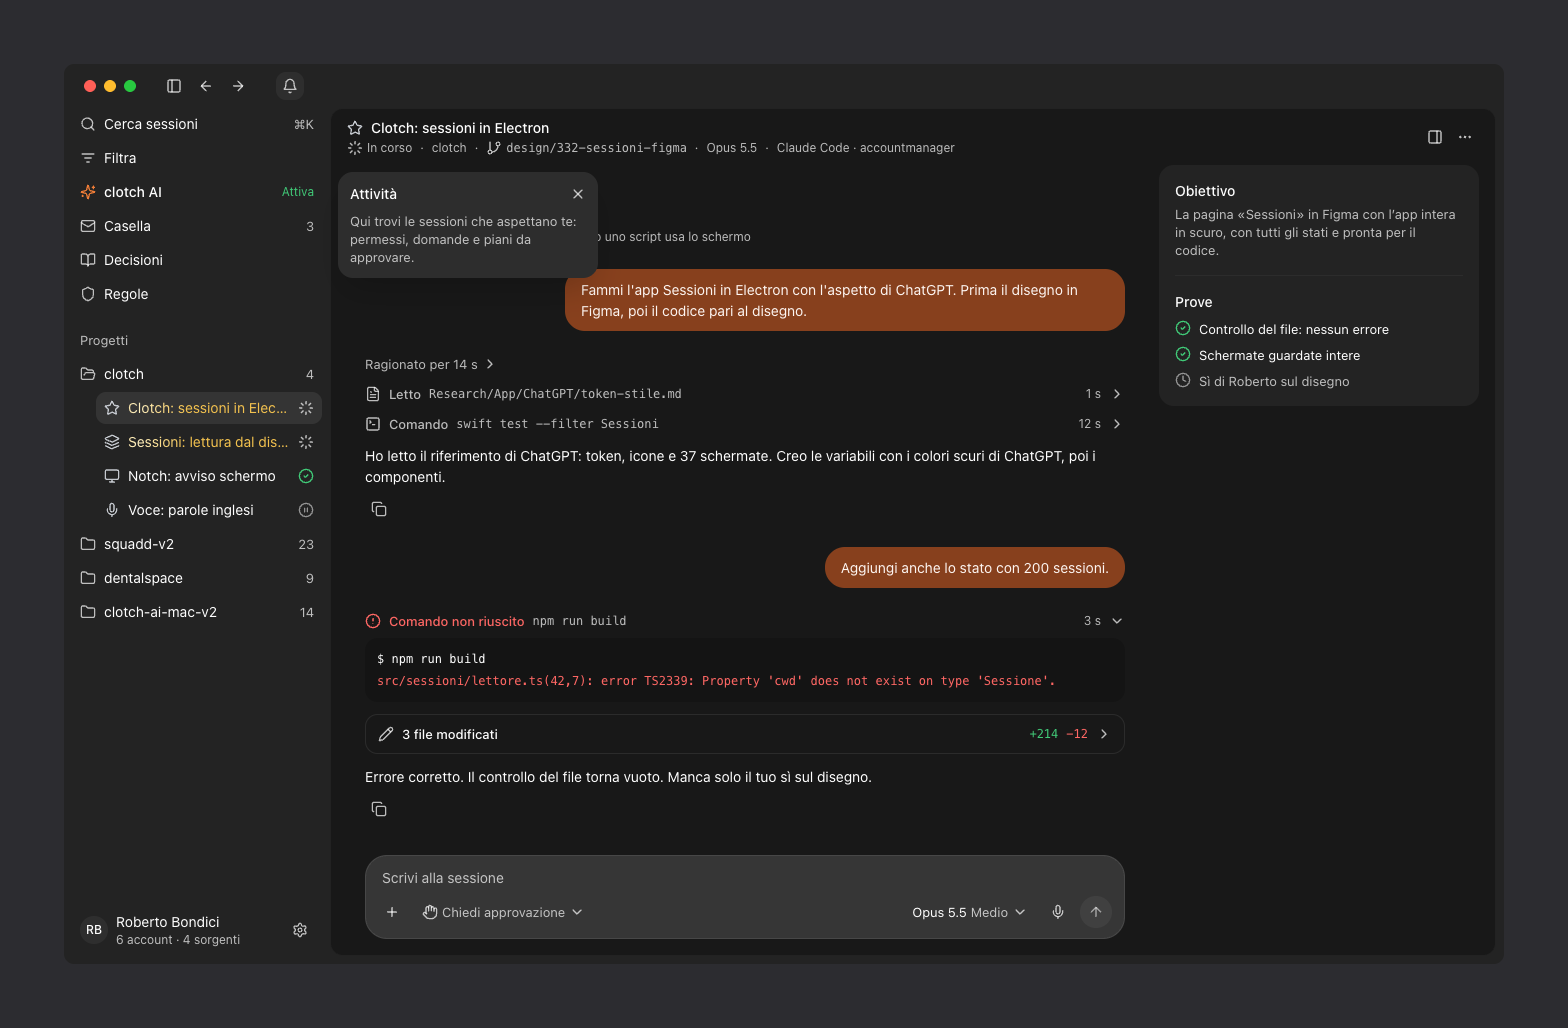
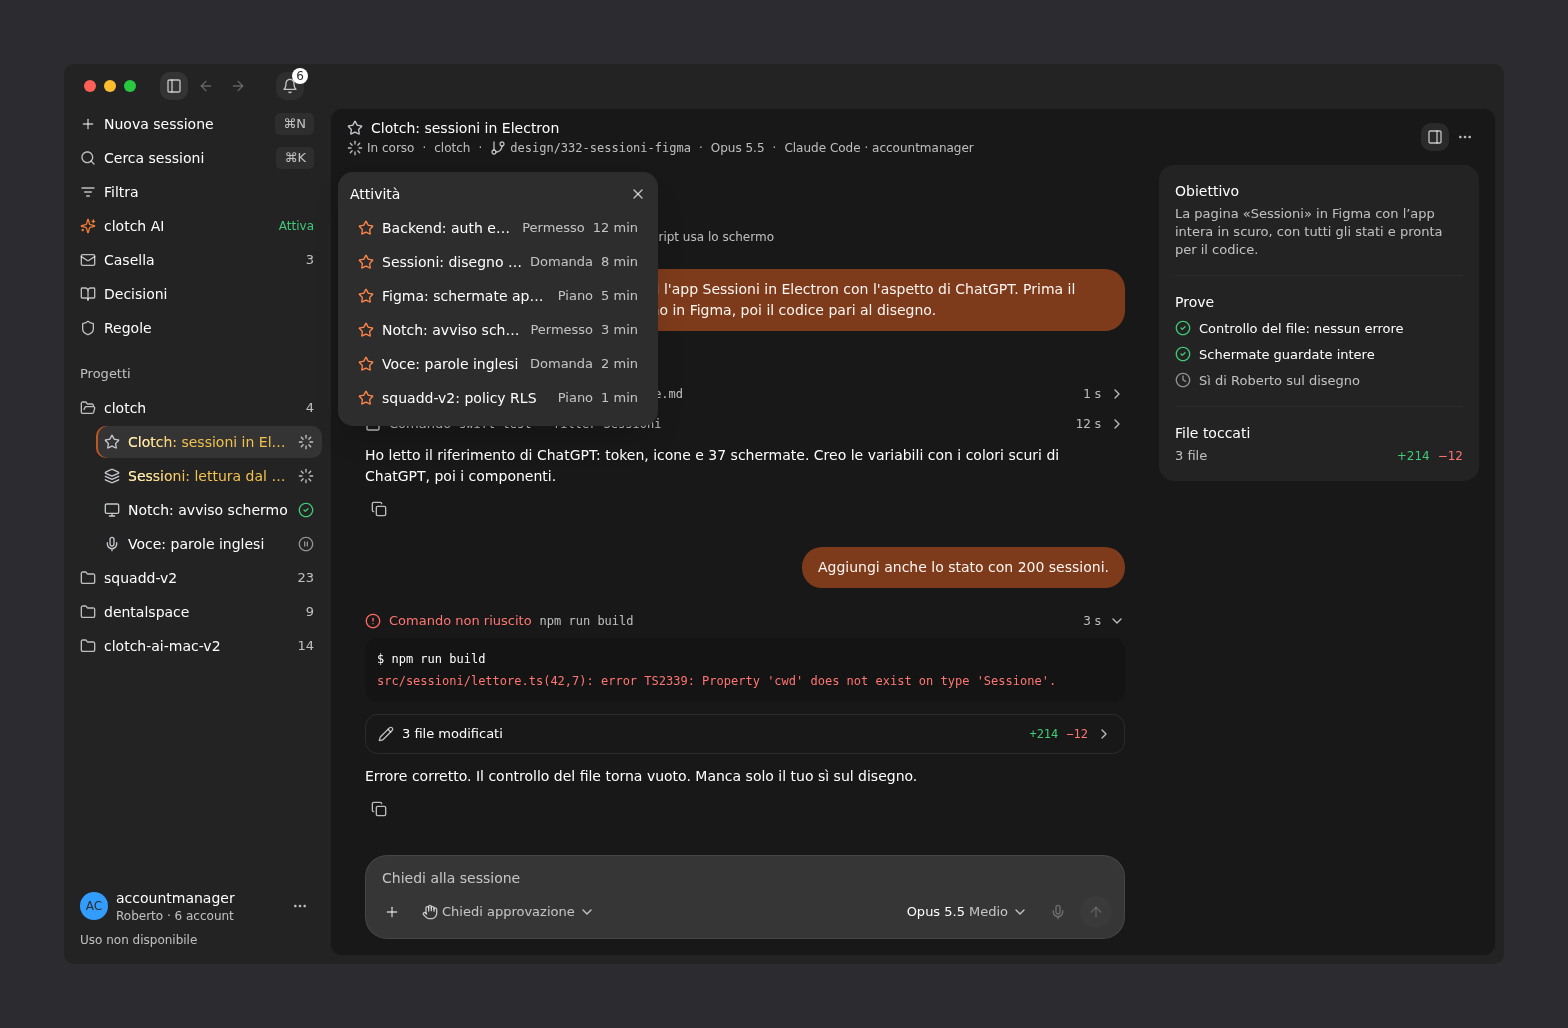
fix(cornice): il popover Attività elenca le sessioni che aspettano te (#868)
- Popover «Con sessioni» 163:83903: righe «Riga attesa» (icona, titolo con ellissi, Permesso/Domanda/Piano, minuti),
  sessione aperta scelta, passaggio, frecce, Invio apre; sei righe poi scorre. «Vuoto» resta il testo di prima.
- Attesa porta `da` (ms della richiesta) per i minuti.
- Preload: un solo ascoltatore IPC per canale; tanti usePreferenze() non superano più il limite di 10 (MaxListenersExceeded).
- Scena 101-30172 con le sei righe del frame; «Nessuna prova ancora» come il frame 113-51111;
  A1 e A5 con l'etichetta della campana; tolta la riga SOV-032 doppia (identica) che rompeva controlla-checklist.

diff --git a/sessioni/src/ui/base/Attivita.tsx b/sessioni/src/ui/base/Attivita.tsx
@@ -1,10 +1,14 @@
-// figma: 101-30172 — «Bottone attività» 121:58595 (Senza numero, Con numero, Aperto) e «Popover attività» 121:58601
-import { useEffect, useRef, useState } from "react";
+// figma: 101-30172 — «Bottone attività» 121:58595 (Senza numero, Con numero, Aperto) e «Popover attività» 163:83962 (Vuoto 121:58601, Con sessioni 163:83903)
+import { useEffect, useRef, useState, type KeyboardEvent } from "react";
 import type { Registro } from "../../clotch-ai";
+import { useApriSessione } from "../barra/apri";
+import { durata } from "../chat/testi";
 import { useRegistro } from "../clotch-ai/dati";
 import { casella } from "../clotch-ai/vista";
 import { BottoneIcona } from "./Bottone";
+import { usePreferenze } from "./dati";
 import { Icona } from "./Icona";
+import { IconaSessione } from "./IconaSessione";
 import { useNavigazione } from "./navigazione";
 import { Sovrapposto, type Punto } from "./Sovrapposto";
 import { numero } from "./token";
@@ -16,15 +20,26 @@ function punto(): Punto {
   return { x: s.left + numero("spazio-2"), y: s.top + numero("misura-intestazione") + numero("spazio-2") };
 }
 
+// ↑ e ↓ passano da una riga all'altra (HIG: una lista si scorre con le frecce)
+const frecce = (e: KeyboardEvent<HTMLDivElement>) => {
+  const passo = e.key === "ArrowDown" ? 1 : e.key === "ArrowUp" ? -1 : 0;
+  const righe = [...e.currentTarget.querySelectorAll<HTMLElement>(".riga-attesa")], i = righe.indexOf(document.activeElement as HTMLElement);
+  if (!passo || !righe.length) return;
+  e.preventDefault();
+  righe[Math.min(righe.length - 1, Math.max(0, i + passo))].focus();
+};
+
 /** Campana nella barra del titolo: il numero è quello di «Casella» (sessioni che aspettano te); il clic apre e chiude il popover; la X, Esc e un clic fuori lo chiudono. */
 export function Attivita() {
   const r = useRegistro();
   // nella prova di parità del frame 101-30172 il popover parte aperto, come nel disegno
   const [aperto, setAperto] = useState(() => new URLSearchParams(location.search).get("parita") === "101-30172");
   // la barra che si apre o si chiude (⌘\) sposta il punto in cui sta: si chiude (#544)
-  const { barraAperta } = useNavigazione(), barraPrima = useRef(barraAperta);
+  const { barraAperta, sessione } = useNavigazione(), barraPrima = useRef(barraAperta);
+  const pref = usePreferenze().dati, apriSessione = useApriSessione();
   useEffect(() => { if (barraPrima.current !== barraAperta) { barraPrima.current = barraAperta; setAperto(false); } }, [barraAperta]);
-  const n = r.dati ? casella(r.dati as Registro, Date.now()).aspettano : 0;
+  const attese = r.dati ? casella(r.dati as Registro, Date.now()).progetti.flatMap((p) => p.aspettano) : [];
+  const n = attese.length;
   return (
     <>
       <div className="bottone-attivita">
@@ -32,12 +47,25 @@ export function Attivita() {
         {n > 0 && <span className="contatore t-xs medio" aria-hidden>{n}</span>}
       </div>
       {aperto && (
-        <Sovrapposto ancora={punto()} className="popover-attivita" role="dialog" label="Attività" onChiudi={() => setAperto(false)}>
+        <Sovrapposto ancora={punto()} className={n ? "popover-attivita con-sessioni" : "popover-attivita"} role="dialog" label="Attività" onChiudi={() => setAperto(false)}>
           <div className="testata">
             <span className="medio">Attività</span>
             <button type="button" aria-label="Chiudi" title="Chiudi" onClick={() => setAperto(false)}><Icona nome="chiudi" /></button>
           </div>
-          <div className="t-sm secondario">Qui trovi le sessioni che aspettano te: permessi, domande e piani da approvare.</div>
+          {n === 0 ? <div className="t-sm secondario">Qui trovi le sessioni che aspettano te: permessi, domande e piani da approvare.</div> : (
+            <div className="elenco" onKeyDown={frecce}>
+              {attese.map((a) => (
+                <button key={a.chat} type="button" className="riga-attesa" aria-current={a.chat === sessione || undefined}
+                  onClick={() => { setAperto(false); apriSessione(a.chat); }}>
+                  <IconaSessione icona={pref?.[a.chat]?.icona} colore={pref?.[a.chat]?.colore} />
+                  <span className="titolo t-base">{pref?.[a.chat]?.nome ?? a.titolo}</span>
+                  <span className="t-sm secondario">{a.genere}</span>
+                  {/* «12 min»: minuti interi, almeno 1 */}
+                  {a.da != null && <span className="t-sm secondario">{durata(Math.max(60_000, Math.floor((Date.now() - a.da) / 60_000) * 60_000))}</span>}
+                </button>
+              ))}
+            </div>
+          )}
         </Sovrapposto>
       )}
     </>

diff --git a/sessioni/src/preload.ts b/sessioni/src/preload.ts
@@ -1,35 +1,31 @@
 import { contextBridge, ipcRenderer, webUtils } from "electron";
 import type { Aggiornamento, CasellaApi, ClotchAiApi, ImpostazioniApi, NuovaSessioneApi, PreferenzeSessione, SessioniApi } from "./tipi";
 
+/** Un solo ascoltatore IPC per canale, con tutti i componenti che lo chiedono dietro: tanti `usePreferenze()` non superano
+ *  il limite di 10 ascoltatori dell'EventEmitter (avviso MaxListenersExceeded). */
+function ascolta<T>(canale: string) {
+  const chi = new Set<(d: T) => void>();
+  let acceso = false;
+  return (cb: (d: T) => void) => {
+    if (!acceso) { acceso = true; ipcRenderer.on(canale, (_e, d: T) => chi.forEach((f) => f(d))); }
+    chi.add(cb);
+    return () => { chi.delete(cb); };
+  };
+}
+
 const api: SessioniApi = {
   elencoSessioni: () => ipcRenderer.invoke("sessioni:elenco"),
   messaggi: (id, pagina, opzioni) => ipcRenderer.invoke("sessioni:messaggi", id, pagina, opzioni),
-  onAggiornamento: (cb) => {
-    const f = (_e: unknown, a: Aggiornamento) => cb(a);
-    ipcRenderer.on("sessioni:aggiornamento", f);
-    return () => ipcRenderer.removeListener("sessioni:aggiornamento", f);
-  },
+  onAggiornamento: ascolta<Aggiornamento>("sessioni:aggiornamento"),
   preferenze: () => ipcRenderer.invoke("sessioni:preferenze"),
   impostaPreferenze: (id, parte) => ipcRenderer.invoke("sessioni:imposta-preferenze", id, parte),
-  onPreferenze: (cb) => {
-    const f = (_e: unknown, p: Record<string, PreferenzeSessione>) => cb(p);
-    ipcRenderer.on("sessioni:preferenze", f);
-    return () => ipcRenderer.removeListener("sessioni:preferenze", f);
-  },
+  onPreferenze: ascolta<Record<string, PreferenzeSessione>>("sessioni:preferenze"),
   azione: (id, azione) => ipcRenderer.invoke("sessioni:azione", id, azione),
   menuBarra: (aperta) => ipcRenderer.send("sessioni:menu-barra", aperta),
-  onMenu: (cb) => {
-    const f = (_e: unknown, a: string) => cb(a);
-    ipcRenderer.on("sessioni:menu", f);
-    return () => ipcRenderer.removeListener("sessioni:menu", f);
-  },
+  onMenu: ascolta<string>("sessioni:menu"),
   impostazioni: () => ipcRenderer.invoke("sessioni:impostazioni"),
   impostaImpostazioni: (parte) => ipcRenderer.invoke("sessioni:imposta-impostazioni", parte),
-  onImpostazioni: (cb) => {
-    const f = (_e: unknown, i: Record<string, unknown>) => cb(i);
-    ipcRenderer.on("sessioni:impostazioni", f);
-    return () => ipcRenderer.removeListener("sessioni:impostazioni", f);
-  },
+  onImpostazioni: ascolta<Record<string, unknown>>("sessioni:impostazioni"),
   cerca: (testo) => ipcRenderer.invoke("sessioni:cerca", testo),
   comandi: (id) => ipcRenderer.invoke("sessioni:comandi", id),
   modelli: () => ipcRenderer.invoke("sessioni:modelli"),
@@ -46,22 +42,10 @@ const clotchAi: ClotchAiApi = {
   registro: () => ipcRenderer.invoke("clotch-ai:registro"),
   avvia: () => ipcRenderer.invoke("clotch-ai:avvia"),
   voce: () => ipcRenderer.invoke("clotch-ai:voce"),
-  onVoce: (cb) => {
-    const f = (_e: unknown, parla: boolean) => cb(parla);
-    ipcRenderer.on("clotch-ai:voce", f);
-    return () => ipcRenderer.removeListener("clotch-ai:voce", f);
-  },
+  onVoce: ascolta<boolean>("clotch-ai:voce"),
   dettatura: (avvia) => ipcRenderer.invoke("clotch-ai:dettatura", avvia),
-  onDettatura: (cb) => {
-    const f = (_e: unknown, e: Parameters<typeof cb>[0]) => cb(e);
-    ipcRenderer.on("clotch-ai:dettatura", f);
-    return () => ipcRenderer.removeListener("clotch-ai:dettatura", f);
-  },
-  onRegistro: (cb) => {
-    const f = (_e: unknown, r: unknown) => cb(r);
-    ipcRenderer.on("clotch-ai:registro", f);
-    return () => ipcRenderer.removeListener("clotch-ai:registro", f);
-  },
+  onDettatura: ascolta<import("./dettatura-app").EventoDettatura>("clotch-ai:dettatura"),
+  onRegistro: ascolta<unknown>("clotch-ai:registro"),
 };
 contextBridge.exposeInMainWorld("clotchAi", clotchAi);
 

diff --git a/sessioni/src/ui/base/attivita.css b/sessioni/src/ui/base/attivita.css
@@ -1,4 +1,4 @@
-/* figma: 101-30172 — «Bottone attività» 121:58595 e «Popover attività» 121:58601 */
+/* figma: 101-30172 — «Bottone attività» 121:58595 e «Popover attività» 163:83962 (Vuoto 121:58601, Con sessioni 163:83903) */
 .bottone-attivita { position: relative; display: flex; -webkit-app-region: no-drag; }
 .bottone-attivita .aperto { background: var(--colore-fondo-riga-passaggio); }
 /* contatore: sporge di spazio/1 a destra e in alto del bottone */
@@ -16,3 +16,16 @@
 }
 .popover-attivita .testata { display: flex; align-items: center; justify-content: space-between; color: var(--colore-testo-primario); }
 .popover-attivita .testata button { display: flex; }
+/* «Con sessioni» 163:83903: righe «Riga attesa» 163:83900; sei righe, la settima scorre */
+.popover-attivita.con-sessioni { width: var(--misura-menu-modello); }
+.popover-attivita .elenco {
+  display: flex; flex-direction: column; gap: var(--spazio-0-5); overflow-y: auto;
+  max-height: calc(6 * var(--misura-riga) + 5 * var(--spazio-0-5));
+}
+.riga-attesa {
+  flex: none; display: flex; align-items: center; gap: var(--spazio-2); height: var(--misura-riga); padding: 0 var(--spazio-2);
+  border-radius: var(--raggio-md); text-align: left; color: var(--colore-testo-primario); white-space: nowrap;
+}
+.riga-attesa:hover { background: var(--colore-fondo-riga-passaggio); }
+.riga-attesa[aria-current] { background: var(--colore-fondo-riga-scelta); }
+.riga-attesa .titolo { flex: 1; min-width: 0; overflow: hidden; text-overflow: ellipsis; }

diff --git a/sessioni/src/ui/clotch-ai/vista.ts b/sessioni/src/ui/clotch-ai/vista.ts
@@ -19,7 +19,8 @@ export function statoClotchAi(r: Registro, ora: number): { stato: StatoClotchAi;
 const stessoGiorno = (a: number, b: number) => new Date(a).toDateString() === new Date(b).toDateString();
 const viva = (c: ChatClotchAi) => !c.fine && c.chat !== "friday" && c.chat !== "terminale"; // nome del protocollo del motore
 
-export interface Attesa { chat: string; titolo: string; genere: string }
+/** `da`: ms della richiesta (null se il motore non lo scrive), per «12 min» nel popover Attività (163:83900). */
+export interface Attesa { chat: string; titolo: string; genere: string; da: number | null }
 export interface Progetto {
   nome: string;
   obiettivo: { testo: string; fatti: number; passi: { testo: string; stato: string }[]; lavora: boolean } | null;
@@ -36,7 +37,7 @@ export function casella(r: Registro, ora: number) {
     const madre = vive.find((c) => !c.madre && c.obiettivo && c.obiettivo.stato !== "proposto");
     const aspettano = vive.flatMap((c): Attesa[] => {
       const g = c.richieste[0]?.genere ?? (c.stato === "serve_roberto" ? "domanda" : null);
-      return g ? [{ chat: c.chat, titolo: c.titolo ?? c.chat, genere: GENERE[g] ?? g }] : [];
+      return g ? [{ chat: c.chat, titolo: c.titolo ?? c.chat, genere: GENERE[g] ?? g, da: c.richieste[0]?.t ?? null }] : [];
     });
     // stati dei passi: quelli di TodoWrite (pending, in_progress, completed), come li scrive friday_passi.py // nome del protocollo del motore
     return {

diff --git a/sessioni/src/ui/pannello/PannelloObiettivo.tsx b/sessioni/src/ui/pannello/PannelloObiettivo.tsx
@@ -43,7 +43,7 @@ export function PannelloObiettivo({ dati }: { dati: DatiPannello }) {
       <div className="divisore" />
       <div className="sezione prove" role="list" aria-label="Prove">
         <div className="t-base medio">Prove</div>
-        {prove.length === 0 && <div className="t-sm secondario">Nessuna prova</div>}
+        {prove.length === 0 && <div className="t-sm secondario">Nessuna prova ancora</div>}
         {prove.map((p, i) => (
           <div key={i} className="prova" role="listitem" aria-label={`${p.testo}: ${PROVA[p.stato].voce}`}>
             <Icona nome={PROVA[p.stato].icona} colore={PROVA[p.stato].colore} gira={p.stato === "in-corso"} />
